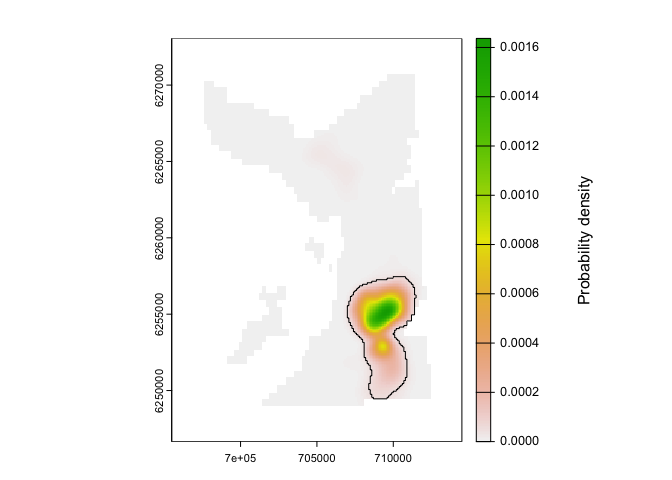
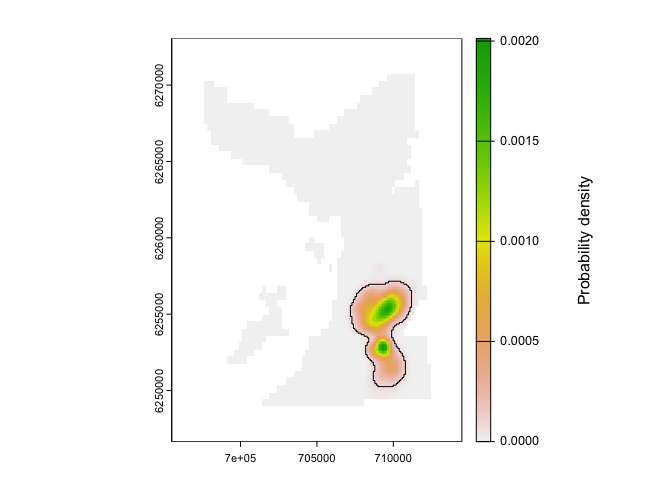
Update READMEs

diff --git a/README.md b/README.md
@@ -610,7 +610,7 @@ args <- list(.timeline   = timeline,
              .yobs       = yobs_fwd,
              .model_move = model_move,
              .n_record   = 1000L,
-             .n_particle = 2e3L)
+             .n_particle = 1e4L)
 
 # Forward run
 fwd <- do.call(pf_filter, args, quote = TRUE)
@@ -619,25 +619,25 @@ fwd <- do.call(pf_filter, args, quote = TRUE)
 head(fwd$states)
 #>    path_id timestep           timestamp map_value        x       y
 #>      <int>    <int>              <POSc>     <num>    <num>   <num>
-#> 1:       1        1 2016-03-17 01:50:00  38.47359 709842.1 6252807
-#> 2:       1        2 2016-03-17 01:52:00  49.42750 709325.3 6253037
-#> 3:       1        3 2016-03-17 01:54:00  52.99475 709273.1 6253052
-#> 4:       1        4 2016-03-17 01:56:00  38.00305 709626.8 6252782
-#> 5:       1        5 2016-03-17 01:58:00  43.93695 709229.3 6252623
-#> 6:       1        6 2016-03-17 02:00:00  49.42750 709313.7 6252958
+#> 1:       1        1 2016-03-17 01:50:00  42.39980 709442.1 6252807
+#> 2:       1        2 2016-03-17 01:52:00  49.42750 709292.4 6253022
+#> 3:       1        3 2016-03-17 01:54:00  83.21526 709073.7 6253192
+#> 4:       1        4 2016-03-17 01:56:00  37.55011 709685.4 6252670
+#> 5:       1        5 2016-03-17 01:58:00  45.86026 709430.2 6252964
+#> 6:       1        6 2016-03-17 02:00:00  46.53543 709252.1 6252852
 head(fwd$diagnostics)
-#>    timestep           timestamp       ess     maxlp
-#>       <int>              <POSc>     <num>     <num>
-#> 1:        1 2016-03-17 01:50:00  869.6815 -4.934213
-#> 2:        2 2016-03-17 01:52:00 1293.8691 -4.921395
-#> 3:        3 2016-03-17 01:54:00 1419.4306 -4.920048
-#> 4:        4 2016-03-17 01:56:00  976.7509 -4.550330
-#> 5:        5 2016-03-17 01:58:00 1011.8356 -4.924376
-#> 6:        6 2016-03-17 02:00:00 1337.5549 -4.900029
+#>    timestep           timestamp      ess     maxlp
+#>       <int>              <POSc>    <num>     <num>
+#> 1:        1 2016-03-17 01:50:00 4290.876 -4.934213
+#> 2:        2 2016-03-17 01:52:00 6391.392 -4.915979
+#> 3:        3 2016-03-17 01:54:00 7131.287 -4.913703
+#> 4:        4 2016-03-17 01:56:00 4862.654 -4.546714
+#> 5:        5 2016-03-17 01:58:00 4926.398 -4.917193
+#> 6:        6 2016-03-17 02:00:00 6690.797 -4.896022
 fwd$callstats
 #>              timestamp         routine n_particle n_iter convergence     time
 #>                 <POSc>          <char>      <int>  <int>      <lgcl>    <num>
-#> 1: 2025-02-12 22:38:41 filter: forward       2000      1        TRUE 7.179817
+#> 1: 2025-02-12 22:57:50 filter: forward      10000      1        TRUE 7.661901
 
 # Backward run
 args$.yobs      <- yobs_bwd
@@ -648,25 +648,25 @@ bwd <- do.call(pf_filter, args, quote = TRUE)
 head(bwd$states)
 #>    path_id timestep           timestamp map_value        x       y
 #>      <int>    <int>              <POSc>     <num>    <num>   <num>
-#> 1:       1        1 2016-03-17 01:50:00  60.09327 709363.9 6253327
-#> 2:       1        2 2016-03-17 01:52:00  93.25472 708969.0 6253185
-#> 3:       1        3 2016-03-17 01:54:00  45.88295 709319.1 6252872
-#> 4:       1        4 2016-03-17 01:56:00  38.47359 709879.4 6252780
-#> 5:       1        5 2016-03-17 01:58:00  87.54828 709109.2 6253380
-#> 6:       1        6 2016-03-17 02:00:00  46.53543 709286.6 6252808
+#> 1:       1        1 2016-03-17 01:50:00  42.39980 709458.5 6252790
+#> 2:       1        2 2016-03-17 01:52:00  43.58479 709525.9 6253099
+#> 3:       1        3 2016-03-17 01:54:00  45.88295 709363.9 6252886
+#> 4:       1        4 2016-03-17 01:56:00  51.52599 709173.0 6251836
+#> 5:       1        5 2016-03-17 01:58:00  42.54443 709499.0 6252997
+#> 6:       1        6 2016-03-17 02:00:00  45.88295 709321.2 6252872
 head(bwd$diagnostics)
-#>    timestep           timestamp       ess     maxlp
-#>       <int>              <POSc>     <num>     <num>
-#> 1:        1 2016-03-17 01:50:00 1418.0911 -4.917011
-#> 2:        2 2016-03-17 01:52:00 1311.4996 -4.918265
-#> 3:        3 2016-03-17 01:54:00  972.2519 -4.919036
-#> 4:        4 2016-03-17 01:56:00 1025.8200 -4.547087
-#> 5:        5 2016-03-17 01:58:00 1353.8337 -4.920917
-#> 6:        6 2016-03-17 02:00:00  992.3345 -4.896301
+#>    timestep           timestamp      ess     maxlp
+#>       <int>              <POSc>    <num>     <num>
+#> 1:        1 2016-03-17 01:50:00 7085.354 -4.915860
+#> 2:        2 2016-03-17 01:52:00 6648.213 -4.913576
+#> 3:        3 2016-03-17 01:54:00 4777.271 -4.915514
+#> 4:        4 2016-03-17 01:56:00 5172.635 -4.546961
+#> 5:        5 2016-03-17 01:58:00 6692.765 -4.914546
+#> 6:        6 2016-03-17 02:00:00 4977.524 -4.899462
 bwd$callstats
-#>              timestamp          routine n_particle n_iter convergence      time
-#>                 <POSc>           <char>      <int>  <int>      <lgcl>     <num>
-#> 1: 2025-02-12 22:38:49 filter: backward       2000      1        TRUE 0.4021289
+#>              timestamp          routine n_particle n_iter convergence     time
+#>                 <POSc>           <char>      <int>  <int>      <lgcl>    <num>
+#> 1: 2025-02-12 22:57:57 filter: backward      10000      1        TRUE 1.026864
 ```
 
 ## Particle smoother
@@ -688,28 +688,28 @@ smo <- pf_smoother_two_filter(.n_particle = 750L, .n_sim = 100L)
 head(smo$states)
 #>    path_id timestep           timestamp map_value        x       y
 #>      <int>    <int>              <POSc>     <num>    <num>   <num>
-#> 1:       1        1 2016-03-17 01:50:00  60.09327 709363.9 6253327
-#> 2:       1        2 2016-03-17 01:52:00  58.17422 709269.8 6253073
-#> 3:       1        3 2016-03-17 01:54:00  45.88295 709319.1 6252872
-#> 4:       1        4 2016-03-17 01:56:00  84.47292 709252.0 6253541
-#> 5:       1        5 2016-03-17 01:58:00  46.53543 709258.9 6252774
-#> 6:       1        6 2016-03-17 02:00:00  46.53543 709239.0 6252774
+#> 1:       1        1 2016-03-17 01:50:00  42.39980 709458.5 6252790
+#> 2:       1        2 2016-03-17 01:52:00  52.98276 709339.1 6253123
+#> 3:       1        3 2016-03-17 01:54:00  44.46762 709360.3 6252834
+#> 4:       1        4 2016-03-17 01:56:00  73.27666 709147.1 6253184
+#> 5:       1        5 2016-03-17 01:58:00  42.39980 709398.4 6252821
+#> 6:       1        6 2016-03-17 02:00:00  84.47292 709282.8 6253530
 head(smo$diagnostics)
 #>    timestep           timestamp      ess maxlp
 #>       <int>              <POSc>    <num> <num>
 #> 1:        1 2016-03-17 01:50:00 750.0000   NaN
-#> 2:        2 2016-03-17 01:52:00 649.3271   NaN
-#> 3:        3 2016-03-17 01:54:00 590.5898   NaN
-#> 4:        4 2016-03-17 01:56:00 409.9490   NaN
-#> 5:        5 2016-03-17 01:58:00 662.1839   NaN
-#> 6:        6 2016-03-17 02:00:00 649.0461   NaN
+#> 2:        2 2016-03-17 01:52:00 668.7949   NaN
+#> 3:        3 2016-03-17 01:54:00 596.4778   NaN
+#> 4:        4 2016-03-17 01:56:00 387.9994   NaN
+#> 5:        5 2016-03-17 01:58:00 664.7221   NaN
+#> 6:        6 2016-03-17 02:00:00 645.6459   NaN
 smo$callstats
 #>              timestamp              routine n_particle n_iter convergence
 #>                 <POSc>               <char>      <int>  <int>      <lgcl>
-#> 1: 2025-02-12 22:38:49 smoother: two-filter        750     NA        TRUE
-#>        time
-#>       <num>
-#> 1: 6.161236
+#> 1: 2025-02-12 22:57:59 smoother: two-filter        750     NA        TRUE
+#>       time
+#>      <num>
+#> 1: 5.34409
 ```
 
 ## Mapping
